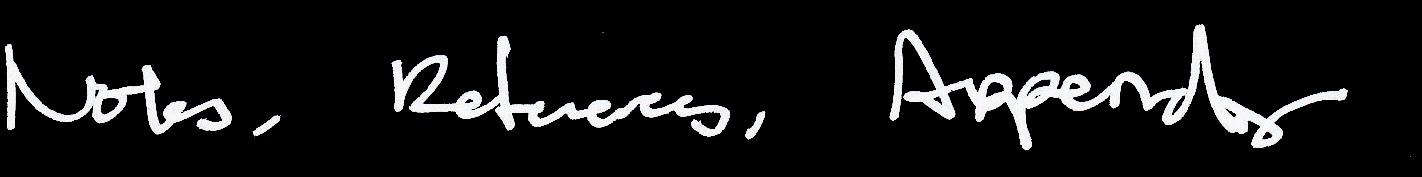
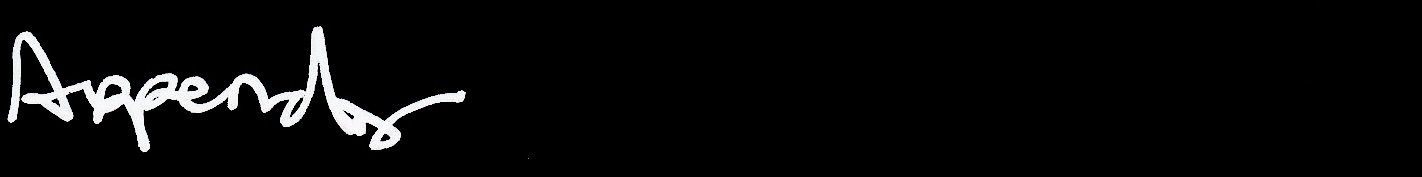
changes

Changed region(s): [[0.0, 0.1412, 0.557, 0.8475], [0.6188, 0.1412, 0.9592, 0.8475]]

diff --git a/notes-references-appendix.html b/notes-references-appendix.html
@@ -69,6 +69,27 @@
             <a class="normal" href="javascript:history.forward()">→</a>
         </div>
         <div class="right">
+            <h2>
+                Notes
+            </h2>
+            <br>
+            <p>
+                1. Grateful acknowledgment is made to Professor Serge Moscovici for his generous aid, and to Anne André,
+                Ben Zion Chanowitz, Alexandra Milgram, and Judith Waters for research assistance. The services of the
+                lnslitut Français d'Opinion Publique were employed in interviewing the working-class segment of our
+                sample and in computer analyzing the data from all subjects. The assistance of Paris MENSA is gratefully
+                acknowledged.
+            </p>
+            <br>
+            <h2>
+                References
+            </h2>
+            <br>
+
+            <h2>
+                Appendix
+            </h2>
+            <img class="blend" src="images/Appendix 2.png">
         </div>
     </div>
 </body>

diff --git a/intuitions-and-secrets.html b/intuitions-and-secrets.html
@@ -58,7 +58,7 @@
                 <br>
                 <a href="index.html"><u>Back to Home</u></a>
                 <br>
-                <a href="notes-references-appendix.html">Notes, References, Appendix</a>
+                <a href="notes-references-appendix.html">Appendix</a>
             </div>
         </h1>
     </div>
@@ -97,6 +97,7 @@
                 places (much as the clock at Grand Central Station in New York serves this function).
             </p>
             <br>
+            <img class="blend" src="images/Table 8.6 2.png">
             <p>
                 Six locations accounted for more than SO percent of all answers, as Table 8.6 shows. The largest number
                 of Parisians indicated they would wait by the Eiffel Tower, the preeminent symbol of <a

diff --git a/emerging-elements.html b/emerging-elements.html
@@ -58,7 +58,7 @@
                 <br>
                 <a href="intuitions-and-secrets.html">Intuitions and Secrets</a>
                 <br>
-                <a href="notes-references-appendix.html">Notes, References, Appendix</a>
+                <a href="notes-references-appendix.html">Appendix</a>
             </div>
         </h1>
     </div>

diff --git a/handdrawn-maps.html b/handdrawn-maps.html
@@ -58,7 +58,7 @@
                 <br>
                 <a href="intuitions-and-secrets.html">Intuitions and Secrets</a>
                 <br>
-                <a href="notes-references-appendix.html">Notes, References, Appendix</a>
+                <a href="notes-references-appendix.html">Appendix</a>
             </div>
         </h1>
     </div>

diff --git a/introduction.html b/introduction.html
@@ -58,7 +58,7 @@
                 <br>
                 <a href="intuitions-and-secrets.html">Intuitions and Secrets</a>
                 <br>
-                <a href="notes-references-appendix.html">Notes, References, Appendix</a>
+                <a href="notes-references-appendix.html">Appendix</a>
             </div>
         </h1>
     </div>

diff --git a/links.html b/links.html
@@ -58,7 +58,7 @@
                 <br>
                 <a href="intuitions-and-secrets.html">Intuitions and Secrets</a>
                 <br>
-                <a href="notes-references-appendix.html">Notes, References, Appendix</a>
+                <a href="notes-references-appendix.html">Appendix</a>
             </div>
         </h1>
     </div>

diff --git a/paris-as-a-collective-representation.html b/paris-as-a-collective-representation.html
@@ -58,7 +58,7 @@
                 <br>
                 <a href="intuitions-and-secrets.html">Intuitions and Secrets</a>
                 <br>
-                <a href="notes-references-appendix.html">Notes, References, Appendix</a>
+                <a href="notes-references-appendix.html">Appendix</a>
             </div>
         </h1>
     </div>

diff --git a/paris-known-and-unknown.html b/paris-known-and-unknown.html
@@ -58,7 +58,7 @@
                 <br>
                 <a href="intuitions-and-secrets.html">Intuitions and Secrets</a>
                 <br>
-                <a href="notes-references-appendix.html">Notes, References, Appendix</a>
+                <a href="notes-references-appendix.html">Appendix</a>
             </div>
         </h1>
     </div>

diff --git a/recognition-of-parisian-scenes.html b/recognition-of-parisian-scenes.html
@@ -58,7 +58,7 @@
                 <br>
                 <a href="intuitions-and-secrets.html">Intuitions and Secrets</a>
                 <br>
-                <a href="notes-references-appendix.html">Notes, References, Appendix</a>
+                <a href="notes-references-appendix.html">Appendix</a>
             </div>
         </h1>
     </div>

diff --git a/the-major-elements.html b/the-major-elements.html
@@ -58,7 +58,7 @@
                 <br>
                 <a href="intuitions-and-secrets.html">Intuitions and Secrets</a>
                 <br>
-                <a href="notes-references-appendix.html">Notes, References, Appendix</a>
+                <a href="notes-references-appendix.html">Appendix</a>
             </div>
         </h1>
     </div>

diff --git a/index.html b/index.html
@@ -58,7 +58,7 @@
                 <br>
                 <a href="intuitions-and-secrets.html">Intuitions and Secrets</a>
                 <br>
-                <a href="notes-references-appendix.html">Notes, References, Appendix</a>
+                <a href="notes-references-appendix.html">Appendix</a>
         </h1>
     </div>
     </div>

diff --git a/social-perceptions.html b/social-perceptions.html
@@ -58,7 +58,7 @@
                 <br>
                 <a href="intuitions-and-secrets.html">Intuitions and Secrets</a>
                 <br>
-                <a href="notes-references-appendix.html">Notes, References, Appendix</a>
+                <a href="notes-references-appendix.html">Appendix</a>
             </div>
 
         </h1>
